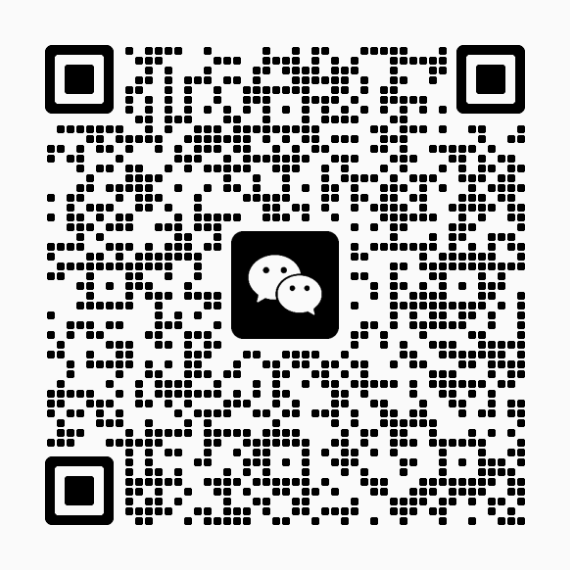
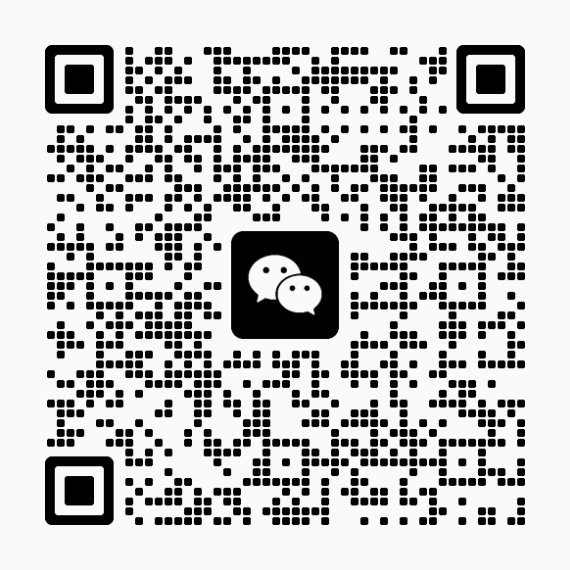
Link the research blog and refresh the WeChat group invite

Changed region(s): [[0.0596, 0.0596, 0.9246, 0.9246]]

diff --git a/website/app/dashboard.tsx b/website/app/dashboard.tsx
@@ -4,7 +4,7 @@ import {TONES} from './lib/palette';
 import {ArrowUpRight,ArrowRight,Plus,Play,Pause,RotateCcw,Search,X,Check,Upload,Download,ChevronDown,GitBranch,Activity,BookOpen,SlidersHorizontal,CheckCircle2,FileJson,Layers,ExternalLink,Users} from 'lucide-react';
 import Community from './community';
 import RepoButton from './repo-button';
-import {REPO_URL,REPO_FILE,asset,docs} from './lib/links';
+import {BLOG_URL,REPO_URL,REPO_FILE,asset,docs} from './lib/links';
 import type {Dataset,Method,Run,Point} from './lib/types';
 import Architecture from './architecture';
 import ArchitecturePreview from './architecture-preview';
@@ -81,7 +81,7 @@ export default function Dashboard({initial,initialMethods}:{initial:Dataset;init
 
 
  return <div className="observatory">
-  <header className="topbar"><div className="brand-cluster"><a className="brand" href="#" onClick={()=>setTab('overview')}><span className="brand-mark">N<span>↗</span></span><b>NextTransformer</b></a><a className="iaai-brand" href="https://github.com/Interactive-Active-AI" target="_blank" rel="noreferrer" aria-label="IAAI · Interactive & Active AI"><img src={asset('brand/iaai.png')} width="34" height="34" alt="IAAI logo"/><b>IAAI</b><span>Interactive <i>&amp;</i> Active AI</span></a></div><div className="header-actions"><a className="header-link" href={docs()}>Docs</a><RepoButton/><button className="header-link" onClick={()=>setCommunity(true)}>Community</button><button className="header-link subtle" onClick={()=>setProtocol(true)}>About the benchmark</button><button className="primary small" aria-label="Contribute" onClick={()=>setTab('contribute')}><Plus size={15}/><span className="contribute-label">Contribute</span></button></div></header>
+  <header className="topbar"><div className="brand-cluster"><a className="brand" href="#" onClick={()=>setTab('overview')}><span className="brand-mark">N<span>↗</span></span><b>NextTransformer</b></a><a className="iaai-brand" href="https://github.com/Interactive-Active-AI" target="_blank" rel="noreferrer" aria-label="IAAI · Interactive & Active AI"><img src={asset('brand/iaai.png')} width="34" height="34" alt="IAAI logo"/><b>IAAI</b><span>Interactive <i>&amp;</i> Active AI</span></a></div><div className="header-actions"><a className="header-link" href={docs()}>Docs</a><a className="header-link" href={BLOG_URL}>Blog</a><RepoButton/><button className="header-link" onClick={()=>setCommunity(true)}>Community</button><button className="header-link subtle" onClick={()=>setProtocol(true)}>About the benchmark</button><button className="primary small" aria-label="Contribute" onClick={()=>setTab('contribute')}><Plus size={15}/><span className="contribute-label">Contribute</span></button></div></header>
   <div className="dream-sky" aria-hidden="true"><i/><i/><span>✦</span><span>✧</span><span>✦</span></div>
   <main>
    {tab==='overview'&&<section className="hero workbench-intro observatory-hero"><div className="hero-copy"><p className="eyebrow">THE TRANSFORMER OBSERVATORY</p><h1>Toward the Next Generation<em>of Transformers.</em></h1><p className="hero-description">{methods.length} architectures, one training budget. Follow how each one learns, and see where it lands.</p><div className="intro-facts"><span><b>49.152B</b> tokens</span><span><b>46,875</b> updates</span><span><b>22</b> benchmarks</span><button onClick={()=>setProtocol(true)}>Protocol <ArrowUpRight size={14}/></button></div><div className="hero-actions"><button className="primary" onClick={()=>setTab('leaderboard')}>Explore the leaderboard <ArrowRight size={15}/></button><button className="secondary" onClick={()=>setTab('arena')}>Enter the arena</button></div></div><Constellation runs={preferredRuns(data.runs)} methods={methods} baseline={baseline} onModel={setModel}/></section>}
@@ -108,7 +108,7 @@ export default function Dashboard({initial,initialMethods}:{initial:Dataset;init
    </section>}
    {tab==='atlas'&&<section className="atlas compact-atlas" id="methods"><div className="directory-heading"><div><p className="eyebrow">05 / MODEL ATLAS</p><h2>Model atlas.<em>{cards.length} ways to spend one budget.</em></h2><p>Open a model to explore its architecture, paper and evidence. Hover a card to see it run.</p></div><label className="search"><Search size={16}/><input placeholder="Search models or mechanisms" value={query} onChange={e=>setQuery(e.target.value)}/></label></div><div className="model-directory">{cards.slice(activeAtlasPage*atlasSize,(activeAtlasPage+1)*atlasSize).map(m=><article className="directory-card" key={m.id} style={{'--family-color':FAMILY[m.family]?.color??'#526B85'} as any}><button className="directory-open" onClick={()=>setModel(m)}><span className="directory-meta"><span>{FAMILY[m.family]?.name??'Baseline'}</span><span>{pending(m)?'Results coming soon':data.runs.some(r=>r.methodId===m.id)?'Measured':'Awaiting results'}</span></span><h3>{chartName(m)}<ArrowUpRight size={16}/></h3><p>{m.tagline}</p><ArchitecturePreview method={m}/></button><div className="directory-bottom"><span>{m.params?((m.params/1e9).toFixed(2)+'B params'):'Params —'} · {m.blocks||'—'} blocks</span><button onClick={()=>pending(m)?setModel(m):compare(m)} aria-label={(pending(m)?'Open model card for ':'Explore ')+chartName(m)}>{pending(m)?'Model card':denseRun?'Compare':'Explore'} <ArrowRight size={14}/></button></div></article>)}</div><Pagination page={activeAtlasPage} total={cards.length} size={atlasSize} onChange={setAtlasPage} label="Models"/>{!cards.length&&<p className="empty-table">No matching models.</p>}</section>}
    {tab==='contribute'&&<section className="contribute-page"><div className="contribution-hero"><p className="eyebrow">06 / CONTRIBUTE</p><h2>Add a model or a result.<em>Reviewed, then published from main.</em></h2><p>Every entry on this site is a file in the repository. Train under the shared protocol, audit and export the run, and open a pull request. The site rebuilds when a maintainer merges it.</p><div><a className="primary" href={docs('guides/submit-a-result/')}><BookOpen size={16}/> Contribution guide</a><a className="secondary" href={REPO_URL+'/tree/main/results'} target="_blank" rel="noreferrer"><Activity size={16}/> Browse results</a><button className="secondary" onClick={()=>setTab('arena')}><Layers size={16}/> Enter the arena</button></div></div><div className="submission-steps">{[['01','Train under the protocol','An admitted configuration: 49.152B tokens, the frozen batch, schedule and evaluations'],['02','Audit and export','nexttransformer.audit_run checks the run directory; nexttransformer.export_run writes the record'],['03','Open a pull request','results/runs/<model>.json with its audit, plus a model card for a new model'],['04','Review and publish','A maintainer reviews and merges; the site is rebuilt from main']].map(x=><div key={x[0]}><span>{x[0]}</span><b>{x[1]}</b><p>{x[2]}</p></div>)}</div></section>}
-  </main><footer><a className="footer-brand" href="#">NextTransformer <span>·</span> a study of computation</a><div><a href={docs()}>Docs</a><a href={REPO_URL} target="_blank" rel="noreferrer">GitHub</a><button onClick={()=>setCommunity(true)}>Community</button><button onClick={()=>setProtocol(true)}>Protocol</button><span>MIT License · single-seed results</span></div></footer>
+  </main><footer><a className="footer-brand" href="#">NextTransformer <span>·</span> a study of computation</a><div><a href={docs()}>Docs</a><a href={BLOG_URL}>Blog</a><a href={REPO_URL} target="_blank" rel="noreferrer">GitHub</a><button onClick={()=>setCommunity(true)}>Community</button><button onClick={()=>setProtocol(true)}>Protocol</button><span>MIT License · single-seed results</span></div></footer>
   {benchmarks&&<div className="modal-overlay" onClick={()=>setBenchmarks(false)}><section className="info-modal benchmark-modal" role="dialog" aria-modal="true" aria-label="Individual CORE benchmarks" onClick={e=>e.stopPropagation()}><div className="benchmark-modal-heading"><div><p className="eyebrow">BEYOND THE AGGREGATE</p><h2>22 benchmarks. A closer look.</h2></div><button className="icon-button" aria-label="Close benchmarks" onClick={()=>setBenchmarks(false)}><X size={20}/></button></div><CoreBreakdown embedded initialView={benchmarkView} runs={availableRuns} methods={methods} baseline={denseRun} focusedId={focusedRun?.id} cursor={cursor} onFocus={id=>{setSelected([]);setFocusId(id);}} onShowAll={()=>{setFamily('');setSelected([]);setFocusId('');}}/></section></div>}
   {model&&<div className="modal-overlay" onClick={()=>setModel(null)}><section className="model-drawer" role="dialog" aria-modal="true" aria-label={chartName(model)} onClick={e=>e.stopPropagation()}><button className="close-button" aria-label="Close model card" onClick={()=>setModel(null)}><X size={20}/></button><p className="eyebrow">{FAMILY[model.family]?.name??'BASELINE'} / MODEL CARD</p><h2>{chartName(model)}</h2><p className="drawer-tagline">{model.tagline}</p><div className="drawer-diagram">{(model as any).figureUrl?<img className="uploaded-figure" src={(model as any).figureUrl} alt={chartName(model)+' architecture figure'}/>:<Diagram type={model.diagram} methodId={model.id.startsWith('community-')?'custom':model.id} nodes={(model as any).architecture?.nodes} loop={(model as any).architecture?.loop} large/>}<span>Mechanism illustration · see the model description for details</span></div><div className="model-stats"><div><span>PARAMETERS</span><b>{model.params?(model.params/1e9).toFixed(3)+'B':'Not supplied'}</b></div><div><span>PHYSICAL BLOCKS</span><b>{model.blocks||'Pending'}</b></div><div><span>AVG TRAIN GFLOPs / INPUT TOKEN</span><b>{modelCompute?modelCompute.averageGflopsPerInputToken.toFixed(6):'Not reported'}</b></div></div><ComputeDetails run={modelRun} baseline={denseRun} target={model.flops}/><p className="model-description">{model.description}</p><ul className="mechanisms">{model.mechanism.map((s,i)=><li key={i}><span>0{i+1}</span>{s}</li>)}</ul><div className="paper-box"><BookOpen size={18}/><div><span>Paper / original source</span>{model.paperUrl&&!model.paperUrl.startsWith(REPO_URL)?<a href={model.paperUrl} target="_blank" rel="noreferrer">{model.paperTitle}<ArrowUpRight size={14}/></a>:<strong>{model.paperTitle}</strong>}</div></div><p className="model-limitation">{model.limitations}</p><div className="drawer-actions"><button className="primary" disabled={pending(model)} onClick={()=>compare(model)}>{pending(model)?'Results coming soon':denseRun?'Compare with Dense':'Explore learning curves'} <ArrowRight size={15}/></button><button className="secondary" onClick={()=>compare(model,true)}>Compare with peers</button><button className="text-button" onClick={()=>saveFile(model.id+'-model-card.json',model)}>Model card <Download size={14}/></button></div><div className="drawer-meta"><span>{model.costModel?ledgerLabel(model.costModel):model.cohort==='native-v3'?'Original matrix-cost accounting':'See experiment accounting'}</span></div>{modelArena&&<button className="drawer-arena" onClick={()=>{setModel(null);setTab('arena');}}>Auto-research · {modelArena.researcher.involvement} {LEVELS[modelArena.researcher.involvement].name.toLowerCase()} · read how it was found in the arena <ArrowRight size={14}/></button>}</section></div>}
   {protocol&&<div className="modal-overlay" onClick={()=>setProtocol(false)}><section className="info-modal" role="dialog" aria-modal="true" aria-label="Benchmark protocol" onClick={e=>e.stopPropagation()}><button className="close-button" onClick={()=>setProtocol(false)} aria-label="Close protocol"><X size={20}/></button><p className="eyebrow">ABOUT THE BENCHMARK</p><h2>A common ground for different architectures.</h2><p>NextTransformer studies how recurrent depth, sparse connections and linear state change language-model learning. The Dense Baseline uses full causal attention in every layer. {denseRun?'It was calibrated and trained separately under the same budget, and every relative comparison uses it.':'Its results are pending.'} The historical SSSL model, three local-attention layers followed by a full causal layer, keeps its own results; they are never reused as Dense results.</p><div className="protocol-facts">{[['Training data','ClimbMix · shared train/validation split'],['Input budget','49.152 billion tokens'],['Context','2,048 tokens · BOS best-fit packing'],['Updates','46,875 · 1,048,576 tokens per update'],['Randomness','Single seed: 42'],['Validation','BPB at step 0, every 250 steps and the final step'],['CORE','22 tasks at 8k, 16k, 24k, 32k, 40k and 46,875'],['Optimization','Muon + AdamW · BF16'],['Compute target','4.672398 GFLOPs / input token for reference configurations']].map(([k,v])=><div key={k}><b>{k}</b><span>{v}</span></div>)}</div><h3>Reading the results</h3><p>Lower validation BPB means better prediction per byte. Higher CORE reflects stronger aggregate performance across the evaluation tasks. Charts reveal measured checkpoints, while replay rankings align models at a shared step.</p><p>Reference configurations target the same average theoretical training cost. Actual run costs, implementation versions and available evaluations are retained with each experiment. Original runs and community submissions remain identifiable.</p><h3>Contributing</h3><p>Every entry is a file in the repository, added by a pull request that the maintainer reviews before merging. Architectures found by LLMs or auto-research agents enter through the Arena, under the same protocol, with a disclosure of how they were found.</p><p className="protocol-links"><a href={docs('protocol/overview/')}>Read the full protocol <ArrowUpRight size={14}/></a><a href={docs('getting-started/quick-start/')}>Quick start <ArrowUpRight size={14}/></a></p></section></div>}

diff --git a/website/app/lib/links.ts b/website/app/lib/links.ts
@@ -1,5 +1,6 @@
 // Every external address the site links to.
 export const REPO_URL = 'https://github.com/Interactive-Active-AI/NextTransformer';
+export const BLOG_URL = 'https://interactive-active-ai.github.io/NextT-Blogs/';
 export const REPO_API = 'https://api.github.com/repos/Interactive-Active-AI/NextTransformer';
 export const REPO_FILE = REPO_URL+'/blob/main/';
 export const DISCUSSIONS_URL = REPO_URL+'/discussions';

diff --git a/README.md b/README.md
@@ -12,6 +12,7 @@
 
 <p>
 <a href="https://interactive-active-ai.github.io/NextTransformer/#leaderboard"><img alt="Leaderboard" src="https://img.shields.io/badge/leaderboard-live-96C1F1?style=flat&amp;labelColor=D1E5FF" height="19"></a>&thinsp;
+<a href="https://interactive-active-ai.github.io/NextT-Blogs/"><img alt="NextTransformer research blog" src="https://img.shields.io/badge/Blog-F6D7AB?style=flat" height="19"></a>&thinsp;
 <a href="https://huggingface.co/NextTransformer"><img alt="Model weights on Hugging Face" src="https://img.shields.io/badge/Hugging%20Face-models-F5CE70?style=flat&amp;logo=huggingface&amp;logoColor=79501F&amp;labelColor=FFF0BB" height="19"></a>&thinsp;
 <a href="https://discord.gg/k2XPXW6Jz"><img alt="Join Discord" src="https://img.shields.io/badge/Discord-D3C2F3?style=flat&amp;logo=discord&amp;logoColor=574589" height="19"></a>&thinsp;
 <a href="https://interactive-active-ai.github.io/NextTransformer/docs/community/#wechat"><img alt="WeChat group" src="https://img.shields.io/badge/WeChat-F5CED9?style=flat&amp;logo=wechat&amp;logoColor=8B4161" height="19"></a>&thinsp;
@@ -35,6 +36,7 @@ result is an audited, file-backed record, and AI agents can research new archite
 
 ## News
 
+- <img src="https://img.shields.io/badge/BLOG-F6D7AB?style=flat-square" alt="Blog" height="18"> **2026-11-11** · The research blog is live. The first post traces [how Opus found AttnRes-Canon](https://interactive-active-ai.github.io/NextT-Blogs/attnres-canon/en/). [Blog repository](https://github.com/Interactive-Active-AI/NextT-Blogs)
 - <img src="https://img.shields.io/badge/RFC-8B5CF6?style=flat-square" alt="RFC" height="18"> **2026-11-05** · **[Scaling RFC](https://github.com/Interactive-Active-AI/NextTransformer/discussions/22)**: 4K-context Dense and MoE pretraining on ClimbMix at **200B and 400B tokens**. Feedback on data, model configurations and evaluation is welcome.
 - <img src="https://img.shields.io/badge/COMMUNITY-2A78D6?style=flat-square" alt="Community" height="18"> **2026-11-04** · **[NextTransformer-V](https://github.com/Enderfga/NextTransformer-V)** by [@Enderfga](https://github.com/Enderfga): a community multimodal track that trains every NextTransformer method on interleaved image and text tokens under the same compute-matched contract. Its first study, pre-registered, asks where hybrid backbones get the 2D layout of an image.
 - <img src="https://img.shields.io/badge/NEW-E5607E?style=flat-square" alt="New" height="18"> **2026-10-31** · NextTransformer is now open source: 31 finished runs, 36 model cards, the full protocol, the documentation and the observatory.

diff --git a/README.zh-CN.md b/README.zh-CN.md
@@ -12,6 +12,7 @@
 
 <p>
 <a href="https://interactive-active-ai.github.io/NextTransformer/#leaderboard"><img alt="排行榜" src="https://img.shields.io/badge/leaderboard-live-96C1F1?style=flat&amp;labelColor=D1E5FF" height="19"></a>&thinsp;
+<a href="https://interactive-active-ai.github.io/NextT-Blogs/"><img alt="NextTransformer 研究博客" src="https://img.shields.io/badge/%E5%8D%9A%E5%AE%A2-F6D7AB?style=flat" height="19"></a>&thinsp;
 <a href="https://huggingface.co/NextTransformer"><img alt="Hugging Face 模型权重" src="https://img.shields.io/badge/Hugging%20Face-models-F5CE70?style=flat&amp;logo=huggingface&amp;logoColor=79501F&amp;labelColor=FFF0BB" height="19"></a>&thinsp;
 <a href="https://discord.gg/k2XPXW6Jz"><img alt="加入 Discord" src="https://img.shields.io/badge/Discord-D3C2F3?style=flat&amp;logo=discord&amp;logoColor=574589" height="19"></a>&thinsp;
 <a href="https://interactive-active-ai.github.io/NextTransformer/docs/zh-cn/community/#wechat"><img alt="微信交流群" src="https://img.shields.io/badge/%E5%BE%AE%E4%BF%A1-F5CED9?style=flat&amp;logo=wechat&amp;logoColor=8B4161" height="19"></a>&thinsp;
@@ -34,6 +35,7 @@ AI agent 也可以在完全相同的规则下研究新架构。
 
 ## 新闻
 
+- <img src="https://img.shields.io/badge/BLOG-F6D7AB?style=flat-square" alt="博客" height="18"> **2026-11-11** · 研究博客上线。首篇文章记录了 [Opus 如何找到 AttnRes-Canon](https://interactive-active-ai.github.io/NextT-Blogs/attnres-canon/)。[博客仓库](https://github.com/Interactive-Active-AI/NextT-Blogs)
 - <img src="https://img.shields.io/badge/RFC-8B5CF6?style=flat-square" alt="RFC" height="18"> **2026-11-05** · **[Scaling 提案](https://github.com/Interactive-Active-AI/NextTransformer/discussions/22)**：在 ClimbMix 上以 **4K 序列**训练 **200B／400B tokens 的 Dense 和 MoE 模型**，征集数据、模型配置和评测建议。
 - <img src="https://img.shields.io/badge/COMMUNITY-2A78D6?style=flat-square" alt="Community" height="18"> **2026-11-04** · 社区项目 **[NextTransformer-V](https://github.com/Enderfga/NextTransformer-V)**（作者 [@Enderfga](https://github.com/Enderfga)）：多模态版本，在同一套算力对齐的约定下，用图文交错的 token 训练 NextTransformer 的每种方法。第一项研究经过预注册，探讨混合架构从哪里得到图像的二维布局。
 - <img src="https://img.shields.io/badge/NEW-E5607E?style=flat-square" alt="New" height="18"> **2026-10-31** · NextTransformer 正式开源：31 个完成的运行、36 张模型卡片、完整的协议、文档和观测站。
